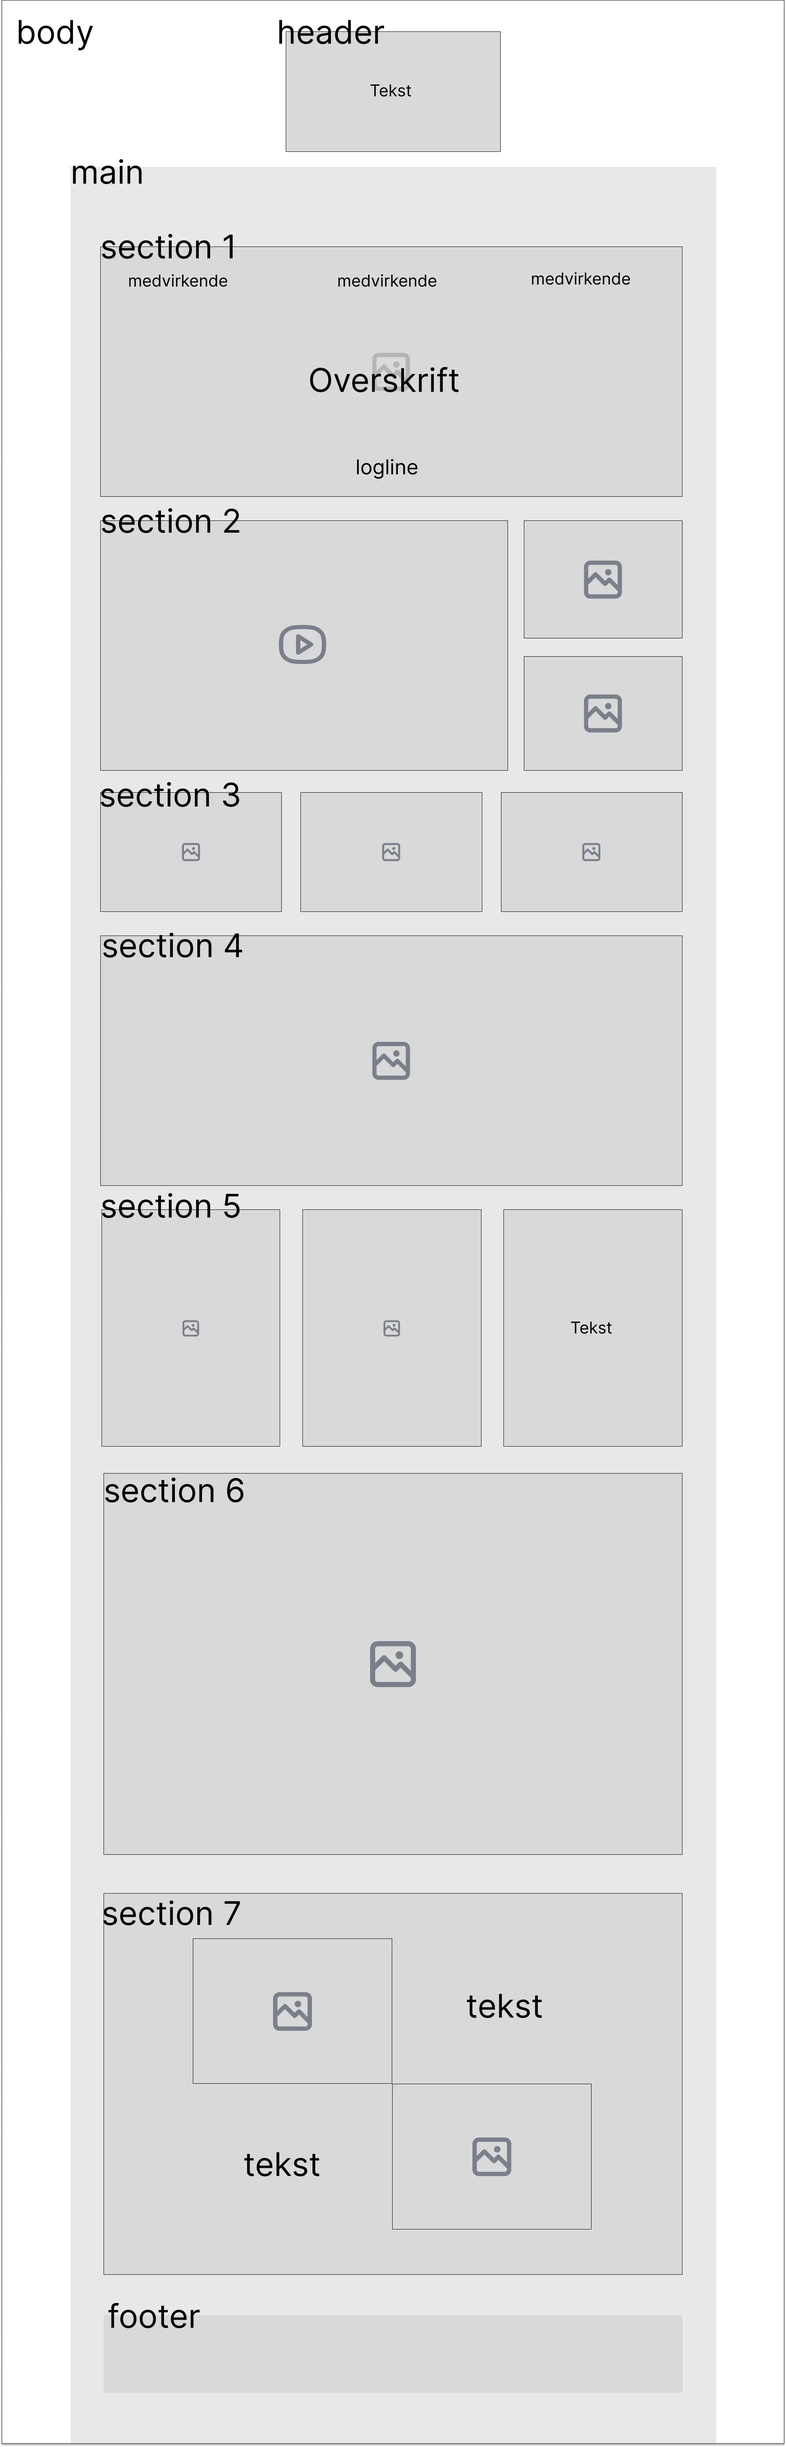
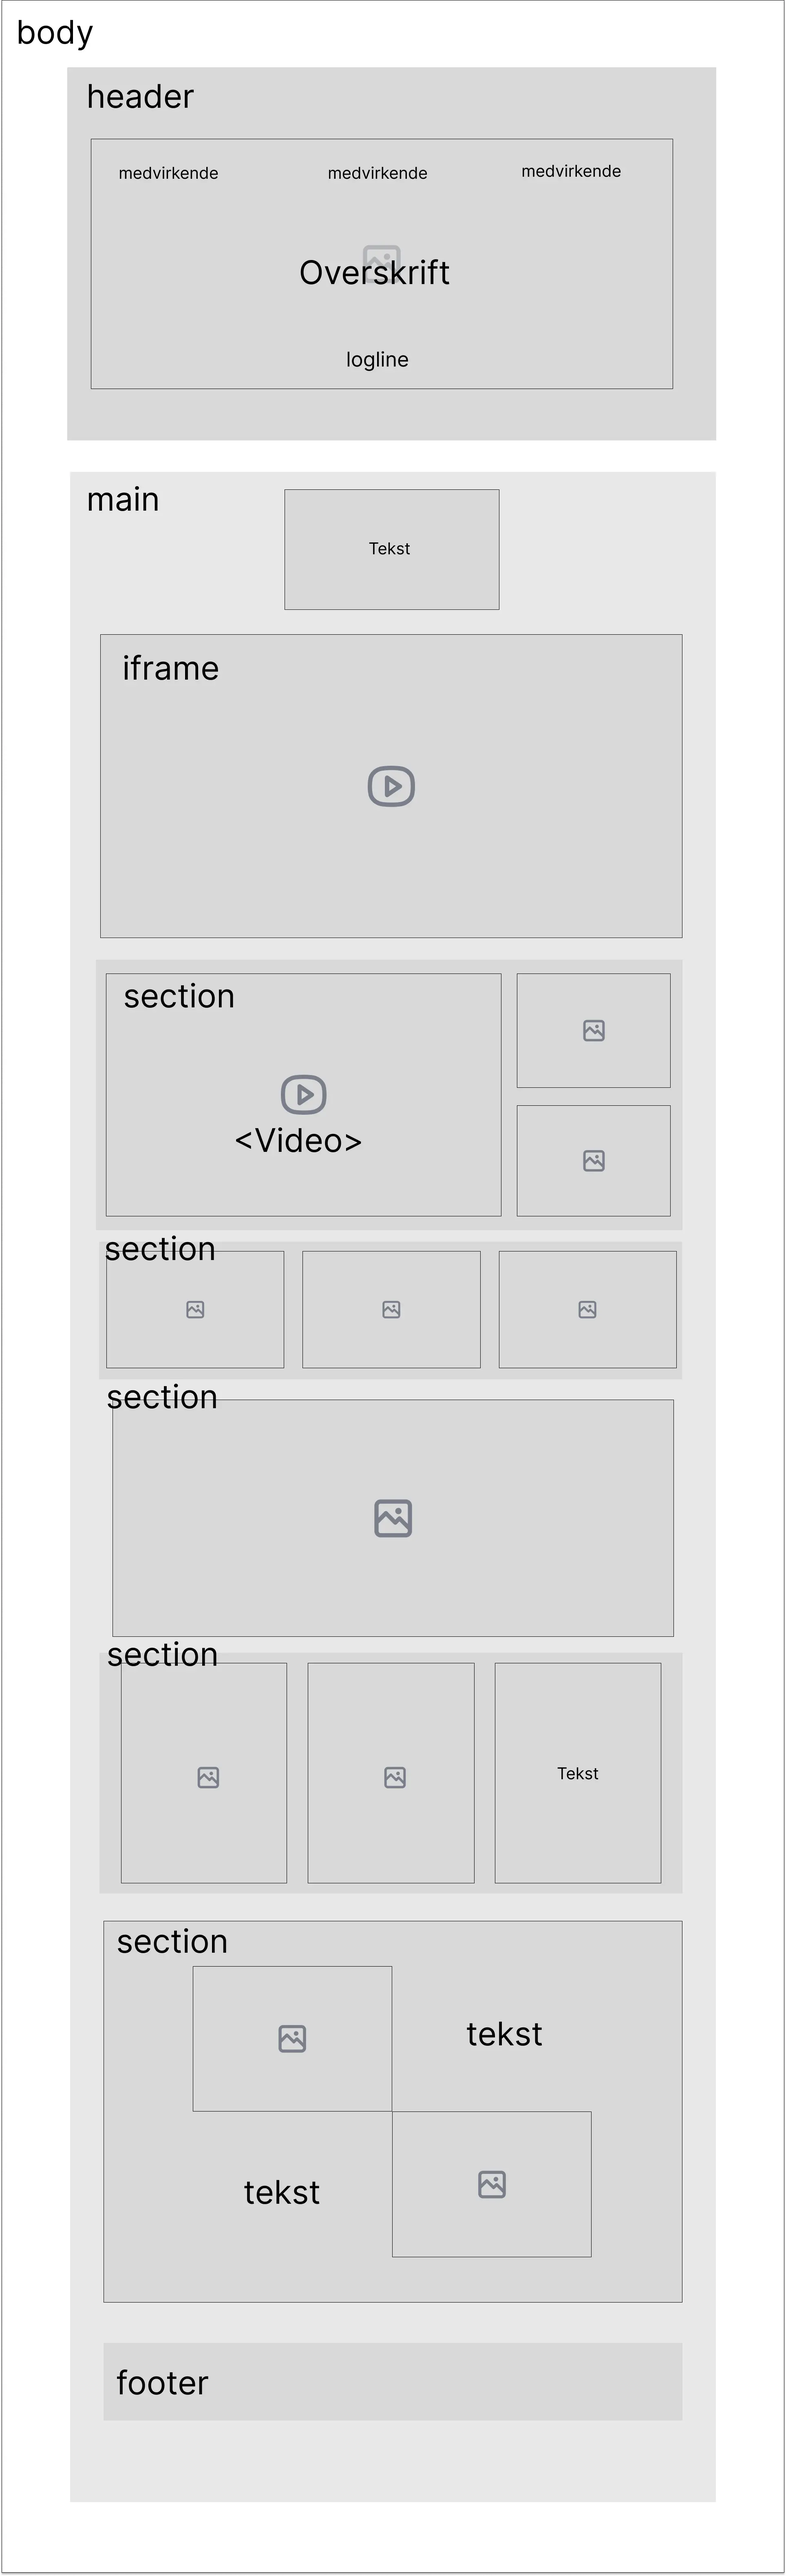
tilføj youtube video

diff --git a/index.html b/index.html
@@ -13,25 +13,11 @@
     <link href="https://fonts.googleapis.com/css2?family=Allison&family=EB+Garamond&display=swap" rel="stylesheet">
     <link href="https://fonts.googleapis.com/css2?family=Bowlby+One+SC&display=swap" rel="stylesheet">
     <link href="https://fonts.googleapis.com/css2?family=Noto+Sans+Pahawh+Hmong&display=swap" rel="stylesheet">
-
     <title>Video_site</title>
 </head>
 
 <body>
     <header>
-        <div class="velkommen"><span
-                style="font-size: 2rem; font-family: EB Garamond, serif; font-weight: bold;">Velkommen
-                til mit
-                website!</span> <br> <br>Denne side indeholder en
-            video og forskellige billeder fra et
-            interview med Clara,
-            som studerer Smykker, Teknologi og Business på KEA. Det er udarbejdet under et 2-og-2 gruppeprojekt, hvor
-            opgaverne var opdelt. Jeg har primært optaget video med DJI Mimo kameraet og min mobil, hvorefter jeg har
-            redigeret videoen ved brug af klipning, farvekorrektion og lydjustering. Det var et nyt område for mig, og
-            det var en spændende udfordring at skabe en kort sammenhængende video baseret på et interview.
-        </div>
-    </header>
-    <main>
         <section class="plakat">
             <div class="fullshot"> <img src="billeder/fullshot-black.webp" alt="fullshot"></div>
             <div class="overskrift">
@@ -45,11 +31,32 @@
             <div class="edit">Redegering af Huijin </div>
             <div class="music">Musik: Unrequited af Asher Fulero </div>
         </section>
+    </header>
+    <main>
+        <div class="velkommen">
+            <div class="indhold"><span
+                    style="font-size: 1.5rem; font-family:'EB Garamondø', serif; font-weight: bold;">Velkommen
+                    til mit
+                    website!</span> <br>Denne side indeholder en
+                video og forskellige billeder fra et
+                interview med Clara,
+                som studerer Smykker, Teknologi og Business på KEA. Det er udarbejdet under et 2-og-2 gruppeprojekt,
+                hvor
+                opgaverne var opdelt. Jeg har primært optaget video med DJI Mimo kameraet og min mobil, hvorefter jeg
+                har
+                redigeret videoen ved brug af klipning, farvekorrektion og lydjustering. Det var et nyt område for mig,
+                og
+                det var en spændende udfordring at skabe en kort sammenhængende video baseret på et interview.
+            </div>
+        </div>
+        <div class="iframe-wrapper"><iframe src="https://www.youtube.com/embed/AJFxLPuFNTo?si=LaH9RKDDrY4HxQNL"
+                title="YouTube video player" frameborder="0"
+                allow="accelerometer; autoplay; clipboard-write; encrypted-media; gyroscope; picture-in-picture; web-share"
+                allowfullscreen></iframe></div>
 
         <section class="container">
-            <div class="video"><video controls
+            <div class="element"><video controls
                     src="https://www.hjb.dk/kea/05_indhold/Videosite/Videosite_Clara.mp4"></video>
-                <a href="https://youtu.be/AJFxLPuFNTo" target="_blank">Åbn YouTube</a>
             </div>
             <div class="closeup"><img src="billeder/closeup.webp" alt="closeup"></div>
             <div class="hand"><img src="billeder/hands-closeup_bl.webp" alt="hands"></div>
@@ -66,13 +73,17 @@
         <section class="beskrivelse">
             <div class="højform"><img src="billeder/højform3.webp" alt="billede"></div>
             <div class="højform2"><img src="billeder/højform.webp" alt="billede"></div>
-            <p>Clara, 23 år og fra Danmark, skaber sit eget unikke fodspor inden for smykkekunsten ved at forene kunst
-                og teknologi. Hun studerer i øjeblikket "Smykker, Teknologi og Business" på Københavns Erhvervsakademi,
-                hvor hendes fokus ligger på smykkers kvalitet og følelsesmæssige værdi snarere end masseproduktion og
+            <p>Clara, 23 år og fra Danmark, skaber sit eget unikke fodspor inden for smykkekunsten ved at forene
+                kunst
+                og teknologi. Hun studerer i øjeblikket "Smykker, Teknologi og Business" på Københavns
+                Erhvervsakademi,
+                hvor hendes fokus ligger på smykkers kvalitet og følelsesmæssige værdi snarere end masseproduktion
+                og
                 forretningsaspekterne. Claras passion udfolder sig i værkstedet, hvor hun med omhu kombinerer
                 håndværksmæssige færdigheder med avanceret teknologi som 3D-print for at give liv til hendes
                 fantasifulde designs. Mens hun følger med i smykketrends, forbliver Clara dedikeret til at udfordre
-                grænserne for smykkedesign og skabe unikke værker, der afspejler både dygtighed og nutidig æstetik.</p>
+                grænserne for smykkedesign og skabe unikke værker, der afspejler både dygtighed og nutidig æstetik.
+            </p>
         </section>
         <section class="workshop">
             <div class="work"><img src="billeder/work.webp" alt="workshop"></div>

diff --git a/style.css b/style.css
@@ -11,9 +11,28 @@ video {
   display: block;
   object-fit: fill;
 }
-video {
+.element {
   display: grid;
   place-items: center;
+  grid-column: 1 / 3;
+  grid-row: 1 / 3;
+  width: 100%;
+  height: auto;
+}
+
+.iframe-wrapper {
+  position: relative;
+  width: 100%;
+  height: 0;
+  padding-top: calc(100% / (16 / 9));
+}
+
+iframe {
+  position: absolute;
+  inset: 0;
+  height: 100%;
+  width: 100%;
+  aspect-ratio: 16 / 9;
 }
 
 body {
@@ -26,13 +45,9 @@ main {
   max-width: 1200px;
   margin: 0 auto;
 }
-
-.velkommen {
-  grid-column: 2/3;
-  padding: 40px;
-  text-align: left;
-  font-family: "EB Garamond", serif;
-  font-size: 16px;
+header {
+  display: flex;
+  flex-direction: column;
 }
 .container {
   display: flex;
@@ -41,10 +56,9 @@ main {
   height: auto;
 }
 .plakat {
-  display: grid;
   place-items: center;
   position: relative;
-  width: 100vw;
+  width: 100%;
   height: auto;
 }
 @font-face {
@@ -113,16 +127,28 @@ main {
   font-weight: bold;
   text-shadow: 1px 1px 2px rgb(18, 17, 17);
 }
-
+.velkommen {
+  display: flex;
+  text-align: center;
+  font-family: "EB Garamond", serif;
+  font-size: 18px;
+  color: #463f3a;
+  padding: 20px;
+}
 .beskrivelse {
   display: flex;
   flex-direction: column;
 }
 p {
-  padding: 0;
+  padding: 20px;
   margin: 0;
-  font-size: 15px;
+  font-size: 16px;
+  font-family: "EB Garamond", serif;
 }
+p::first-letter {
+  font-size: 2em;
+}
+
 .gallery {
   display: flex;
   flex-direction: column;
@@ -186,17 +212,22 @@ p {
 }
 
 @media (min-width: 800px) {
-  header {
+  .velkommen {
     display: grid;
     grid-template-columns: repeat(3, 1fr);
-  }
-  .velkommen {
-    grid-column: 2/3;
-    padding: 40px;
-    text-align: left;
+    text-align: center;
+    justify-content: center;
+    align-items: center;
     font-family: "EB Garamond", serif;
-    font-size: 20px;
+    font-size: 18px;
+    color: #463f3a;
+    padding: 20px;
   }
+  .indhold {
+    grid-column: 2/3;
+    text-align: left;
+  }
+
   body {
     width: 100%;
     height: auto;
@@ -214,6 +245,8 @@ p {
     width: 100%;
     height: auto;
     aspect-ratio: 16/9;
+    margin: 0 auto;
+    padding: 0;
   }
   @font-face {
     font-family: "autography";
@@ -305,7 +338,7 @@ p {
     place-items: center;
   }
 
-  .video {
+  .element {
     grid-column: 1 / 3;
     grid-row: 1 / 3;
     width: 100%;
@@ -348,7 +381,7 @@ p {
   }
   p {
     font-family: "EB Garamond", serif;
-    font-size: 16px;
+    font-size: 18px;
     line-height: 28px;
     grid-column: 3/4;
     padding: 20px;
@@ -401,6 +434,9 @@ p {
   .tekst2 {
     grid-column: 1/3;
     grid-row: 2/3;
+  }
+  .layoutdiagram {
+    padding: 20px;
   }
   .layout a:hover {
     font-size: 20px;

diff --git a/layoutdiagram.html b/layoutdiagram.html
@@ -19,12 +19,11 @@
 
 <body>
     <main>
-        <div class="velkommen"><span
-                style="font-size: 2rem; font-family: EB Garamond, serif; font-weight: bold;">Layoutdiagram</span>
+        <div class="layoutdiagram"><span
+                style="font-size: 2rem; font-family: EB Garamond, serif; font-weight: bold; padding:20px;">Layoutdiagram</span>
             <img src="billeder/layoutdiagram_videowebsite.webp" alt="layoutdiagram">
         </div>
         <div class="layout"> <a href="index.html">Gå til hjemmesiden </a></div>
-
     </main>
     <footer>
         <div class="footer">Lavet af Hui-jin</div>
